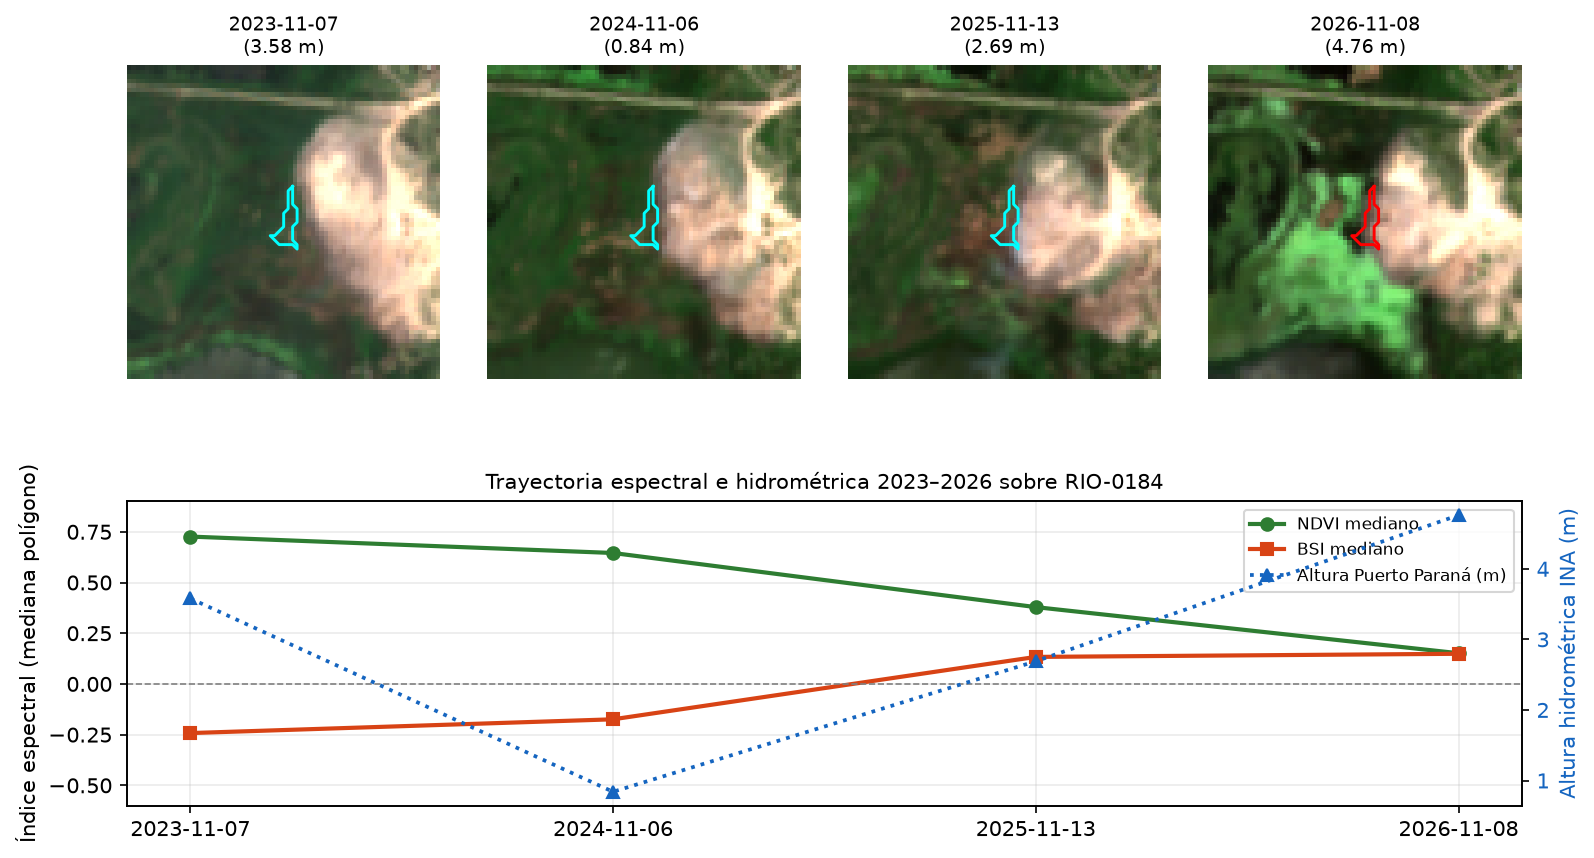
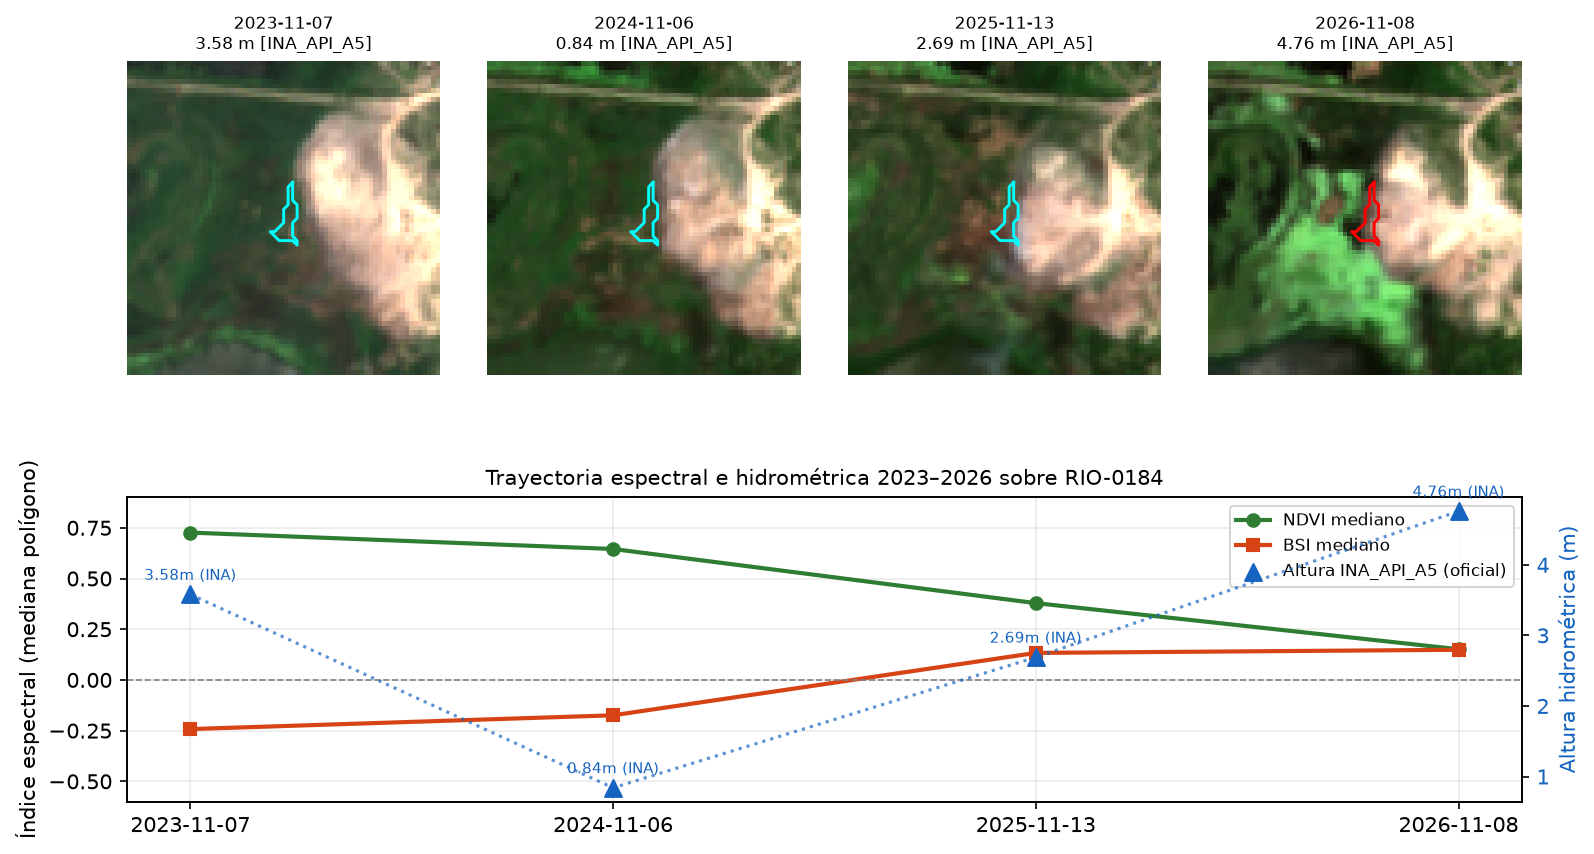
fix(dossier): show per-point hydrometric provenance in Figure 2

diff --git a/scripts/generate_dossier_rio_0184.py b/scripts/generate_dossier_rio_0184.py
@@ -125,14 +125,16 @@ def _generate_multitemporal_figure(
         ax = fig.add_subplot(gs[0, i])
         ax.imshow(_rgb_patch(bundle, r0, r1, c0, c1))
         ax.plot(px_cols, px_rows, color="cyan" if i < 3 else "red", linewidth=1.4)
-        ax.set_title(f"{row['date']}\n({row['_stage_val']:.2f} m)", fontsize=9)
+        st_lbl = f"{row['_stage_val']:.2f} m" if row["_stage_val"] is not None else "N/D"
+        ax.set_title(f"{row['date']}\n{st_lbl} [{row['_stage_src']}]", fontsize=8)
         ax.axis("off")
 
     ax_ts = fig.add_subplot(gs[1, :])
     dates = [r["date"] for r in rows]
     ndvis = [r["_ndvi_med"] for r in rows]
     bsis = [r["_bsi_med"] for r in rows]
-    stages = [r["_stage_val"] for r in rows]
+    stages = [r["_stage_val"] if r["_stage_val"] is not None else np.nan for r in rows]
+    srcs = [r["_stage_src"] for r in rows]
 
     ax_ts.plot(dates, ndvis, marker="o", color="#2e7d32", linewidth=2, label="NDVI mediano")
     ax_ts.plot(dates, bsis, marker="s", color="#d84315", linewidth=2, label="BSI mediano")
@@ -142,8 +144,44 @@ def _generate_multitemporal_figure(
     ax_ts.grid(alpha=0.25)
 
     ax_h = ax_ts.twinx()
-    ax_h.plot(dates, stages, marker="^", linestyle=":", color="#1565c0", linewidth=1.8, label="Altura Puerto Paraná (m)")
-    ax_h.set_ylabel("Altura hidrométrica INA (m)", color="#1565c0")
+    ax_h.plot(dates, stages, linestyle=":", color="#1565c0", linewidth=1.5, alpha=0.7)
+    ina_idx = [i for i, s in enumerate(srcs) if s == "INA_API_A5" and np.isfinite(stages[i])]
+    fb_idx = [i for i, s in enumerate(srcs) if s != "INA_API_A5" and np.isfinite(stages[i])]
+    if ina_idx:
+        ax_h.scatter(
+            [dates[i] for i in ina_idx],
+            [stages[i] for i in ina_idx],
+            marker="^",
+            s=65,
+            color="#1565c0",
+            zorder=5,
+            label="Altura INA_API_A5 (oficial)",
+        )
+    if fb_idx:
+        ax_h.scatter(
+            [dates[i] for i in fb_idx],
+            [stages[i] for i in fb_idx],
+            marker="D",
+            s=65,
+            facecolors="white",
+            edgecolors="#e65100",
+            linewidths=1.8,
+            zorder=6,
+            label="Respaldo histórico/manual (no oficial)",
+        )
+    for i, (d_str, st_v, src_str) in enumerate(zip(dates, stages, srcs)):
+        if np.isfinite(st_v):
+            tag = "INA" if src_str == "INA_API_A5" else "FALLBACK"
+            ax_h.annotate(
+                f"{st_v:.2f}m ({tag})",
+                (d_str, st_v),
+                textcoords="offset points",
+                xytext=(0, 7),
+                ha="center",
+                fontsize=7,
+                color="#1565c0" if tag == "INA" else "#e65100",
+            )
+    ax_h.set_ylabel("Altura hidrométrica (m)", color="#1565c0")
     ax_h.tick_params(axis="y", labelcolor="#1565c0")
 
     lines1, labels1 = ax_ts.get_legend_handles_labels()

diff --git a/data/experiments/exp_001_recalibrated/dossier_RIO-0184_auto.md b/data/experiments/exp_001_recalibrated/dossier_RIO-0184_auto.md
@@ -16,7 +16,7 @@
 | **Superficie vectorial exacta** | **3,097.80 m²** (0.3098 ha) |
 | **Distancia al cuerpo de agua T0** | Sin dato |
 | **Estado de verificación** | `PENDIENTE_VERIFICACION_TERRENO_Y_CATASTRO` |
-| **Fecha de emisión** | 2026-11-15 13:03 UTC |
+| **Fecha de emisión** | 2026-11-15 13:06 UTC |
 
 ## 2. Resumen ejecutivo
 
@@ -103,7 +103,7 @@
 ## 9. Fuentes, parámetros y trazabilidad técnica
 
 - **CRS métrico de cálculo:** `EPSG:5347` (POSGAR 2007). Exportación GeoJSON: `EPSG:4326`.
-- **Procedencia hidrométrica (Puerto Paraná (INA seriesId=30), unidad `m`, consulta=2026-11-15 13:03 UTC):** T0=`2.69` m (`INA_API_A5`), T1=`4.76` m (`INA_API_A5`).
+- **Procedencia hidrométrica (Puerto Paraná (INA seriesId=30), unidad `m`, consulta=2026-11-15 13:06 UTC):** T0=`2.69` m (`INA_API_A5`), T1=`4.76` m (`INA_API_A5`).
 - **Resolución de grilla / SWIR nativo:** 9.996810442680092 m / 20.009770821454982 m.
 - **Área mínima de detección:** 1600.0 m².
 - **Parámetros congelados Fase 2.1:** `bsi_reg_albedo_k=800.0`, `dark_water_min_b11_dn=600.0`, `dark_water_min_b04_dn=420.0`, `dark_water_min_b08_dn=350.0`, `scl7_min_b11_dn=850.0`, `scl7_min_b04_dn=500.0`, `hydrometric_stage_rise_alert_m=0.8`.
